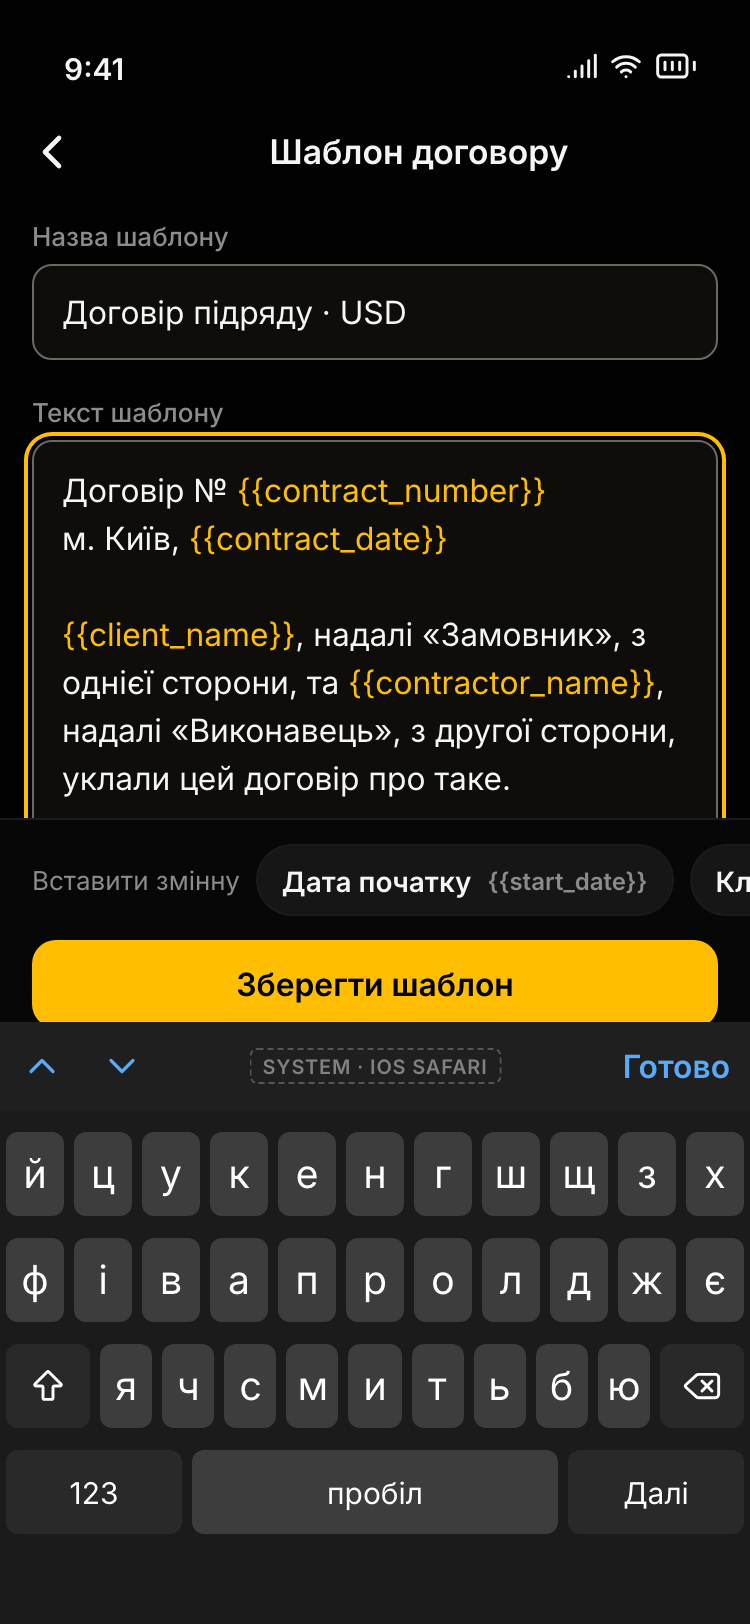
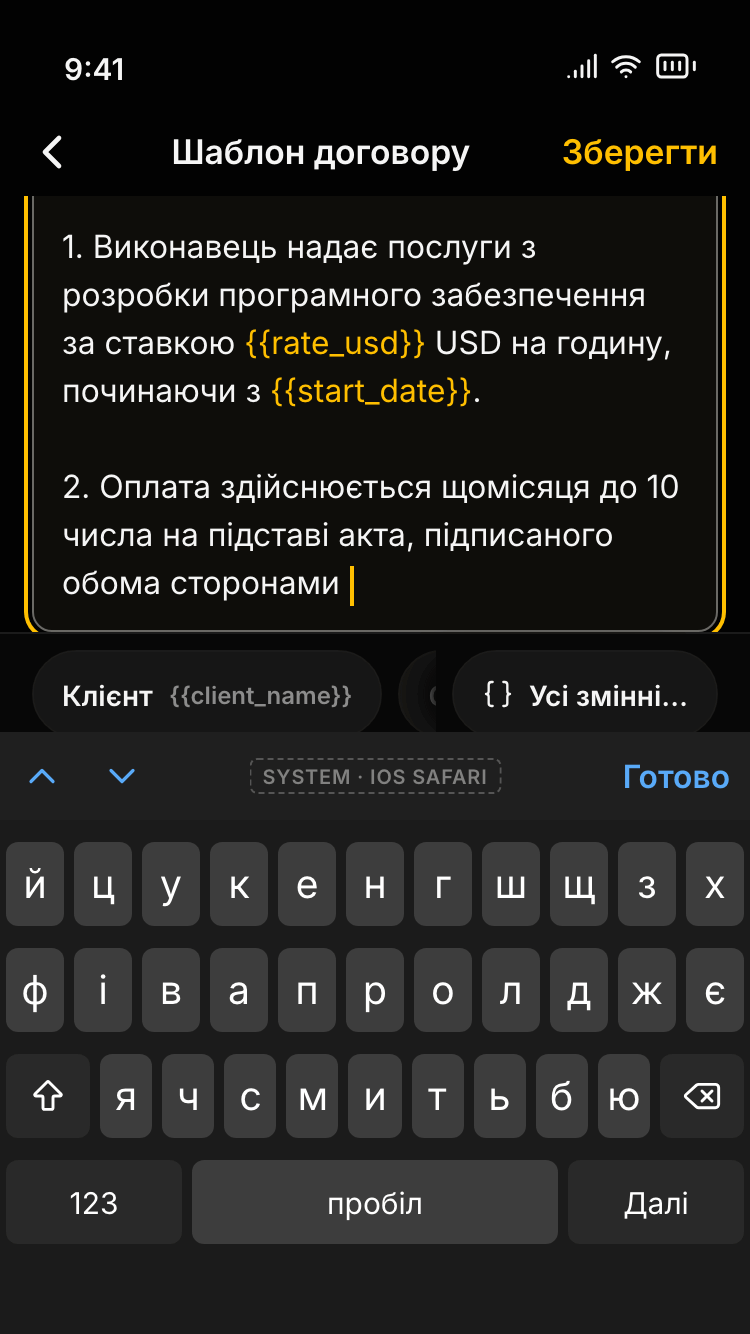
wip: docs(design): TextEditor mirror layer, all-variables chip, 8 lines with keyboard open (fix6 D)

diff --git a/docs/design/screens/_foundation/primitives-v2.md b/docs/design/screens/_foundation/primitives-v2.md
@@ -208,12 +208,22 @@ sheet, not expanded fields.
   string.
 - **Pickers** for project, user, currency and role are the PickerSheet (§2).
 
-**TextEditor** (`form-longtext-375`, keyboard open; contract templates with `{{placeholders}}`): a
-pushed page; the text area **autosizes** to its content (no inner scroll; the page scrolls), 16 / 24
-text, placeholders shown in yellow. Above the keyboard, a horizontally scrolling chip row «Вставити
-змінну» (36 px chips inside a 44 px row, each with its uk label and the token, `aria-label` «Вставити
-змінну <label>»); a tap inserts the token at the caret. The bottom save bar («Зберегти шаблон») rides
-the keyboard on `visualViewport`, chips on top of it. **A dirty close asks** («Вийти без збереження?»
+**TextEditor** (`form-longtext-375`, 375 × 667, keyboard open; contract templates with
+`{{placeholders}}`): a pushed page; the text area **autosizes** to its content (no inner scroll; the
+page scrolls), 16 / 24 text. **Token highlight technique:** a mirror layer behind a transparent
+`textarea`, with the same font, size, line height, padding, wrapping and scroll position; the mirror
+repeats the text with `{{tokens}}` wrapped in yellow spans and is `aria-hidden`. The `textarea` stays
+the source of truth (value, caret, selection, IME, undo, spellcheck); the mirror is redrawn from its
+value on every input. **Keyboard closed:** the bottom bar holds the chip row over the primary «Зберегти
+шаблон». **Keyboard open:** the bar collapses to the chip row only, and the save moves into the top bar
+as a 44 px text button «Зберегти» (the one place a save sits top-right, because the keyboard leaves no
+room). The text window at 375 × 667 is 667 − 54 status − 44 top bar − 61 chip row − 290 keyboard =
+218 px: **at least 8 lines of 24 px** stay visible. The scroller sets `scroll-padding-bottom` equal to
+the bar height (61 px), so the caret line is never under the chips. The chip row «Вставити змінну»
+(`role="group"`) scrolls horizontally: 44 px chips, each with its uk label and the token (`aria-label`
+«Вставити змінну <label>»); a tap inserts the token at the caret. **«Усі змінні…»** is pinned at the
+row's trailing edge (it never scrolls away) and opens a PickerSheet with search over every variable
+(`picker-sheet-375` pattern); a pick inserts at the caret and returns focus to the `textarea`. **A dirty close asks** («Вийти без збереження?»
 with «Вийти» and «Залишитися»); nothing is persisted client-side.
 
 **Keyboard** (`form-keyboard-375`, `shell-v2/quick-add-txn-keyboard-375`): the content scrolls so the
